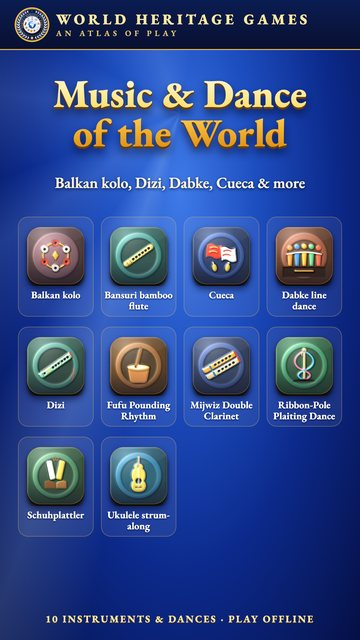
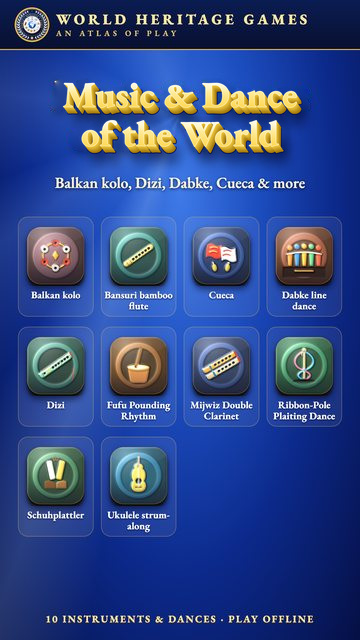
module cards: left-most gallery card heading in the 3D butter-yellow title style (heading only)

Changed region(s): [[0.1528, 0.125, 0.8556, 0.2812]]

diff --git a/assets/games/TITLE-STYLE-REFERENCE.md b/assets/games/TITLE-STYLE-REFERENCE.md
@@ -1,0 +1,6 @@
+# 3D category title style (reference, 2026-10-14)
+The gallery cards at the bottom of each World Heritage Games module (`assets/games/whg-<app>-shot1.jpg`, the left-most card) carry the
+owner-approved fancy 3D butter-yellow category heading ("Drum Music of the World" etc.). Only the heading text differs from the app screenshot.
+Full recipe and reference images: dotfiles `global-memory/whg-title-style-3d-yellow.md`; code: world-heritage-games `tools/ops/retitle-card-shots.py`.
+Short form: EB Garamond 800, 11-layer extrusion `#f6cf45` -> `#9c7208`, navy `#0a1a5e` outline, glossy cream-to-yellow face.
+Regenerate: `python3 ~/coding_common/pvt/world-heritage-games/tools/ops/retitle-card-shots.py` (idempotent only from the original screenshots in git history).
